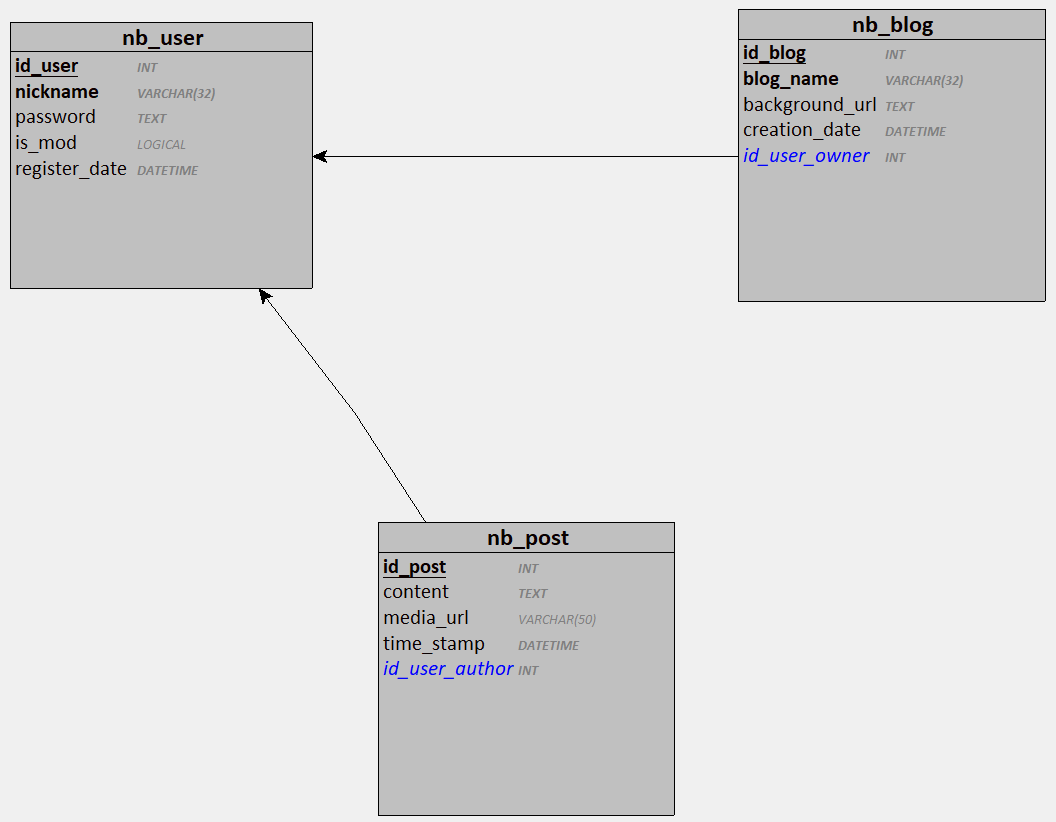
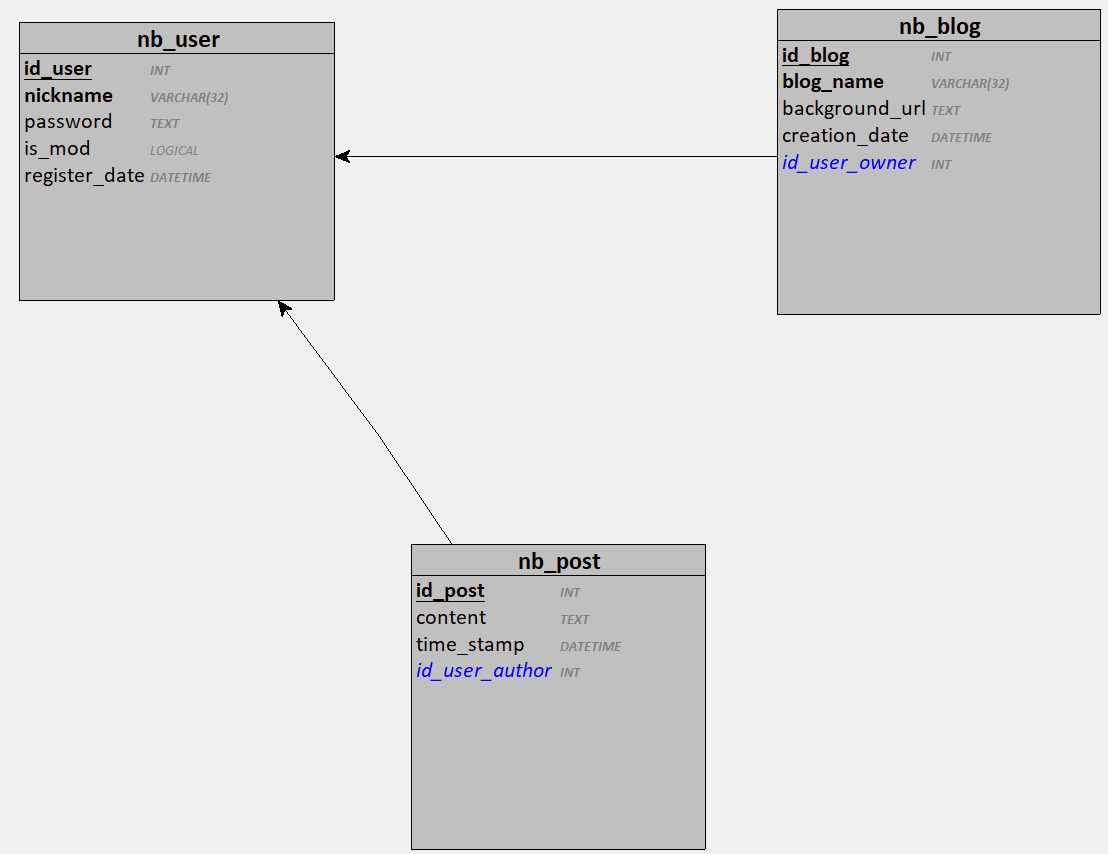
Fixed post uploading & deletion

diff --git a/common/style/styleGeneral.css b/common/style/styleGeneral.css
@@ -303,6 +303,7 @@ header .account form input[type="submit"] {
 .post-container .post-media {
     margin: auto;
     max-height: 300px;
+    max-width: 100%;
     display: block;
 }
 

diff --git a/controller/entities/PostController.php b/controller/entities/PostController.php
@@ -7,7 +7,7 @@ class PostController
 
     /* Insertions */
     // Ajouter un post 
-    public static function createPost(int $authorId, string $content, string $mediaUrl = null): bool
+    public static function createPost(int $authorId, string $content, string $mediaUrl = null): int
     {
         // On tente d'ajouter le post en base de données
         $result = Post::addPost($authorId, $content, $mediaUrl);
@@ -16,7 +16,7 @@ class PostController
             Model::printLog(Model::getError($result));
             return false;
         } else {
-            // Sinon, on retourne le résultat de la requête (vrai/faux)
+            // Sinon, on retourne le résultat de la requête (id du post créé)
             return $result;
         }
     }
@@ -119,50 +119,48 @@ if (isset($_POST['fPost'])) {
         $formError = 'Le contenu du post est vide';
     } else {
         // Sinon, on tente d'ajouter le post en base de données
-        // Si un fichier a bien été uploadé
-        if (!empty($_FILES) && $_FILES['fPostMedia']['error'] != UPLOAD_ERR_NO_FILE) {
-            // Erreur éventuelle de l'upload
-            $error = $_FILES['fPostMedia']['error'];
-
-            if ($_FILES['fPostMedia']['error'] != UPLOAD_ERR_OK || !$_FILES['fPostMedia']['tmp_name']) {
-                // Si une erreur est survenue lors de l'upload, on stocke le message d'erreur à afficher
-                $formError = 'Erreur: Le fichier n\'a pas pu être uploadé';
-            } elseif ((!preg_match("/video\//", $_FILES['fPostMedia']['type'])) && !preg_match("/image\//", $_FILES['fPostMedia']['type'])) {
-                // Si le fichier n'est pas une image ou une vidéo, on stocke le message d'erreur à afficher
-                $formError = 'Votre fichier doit être une image ou une vidéo !';
-            } elseif ($_FILES['fPostMedia']['size'] > 1000000000) {
-                // Si la taille du fichier est supérieure à 10Mo, on stocke le message d'erreur à afficher
-                $formError = 'Le fichier est trop volumineux !';
-            } else {
-                if (preg_match("/image\//", $_FILES['fPostMedia']['type'])) {
-                    $mediaUrl = "/common/files/img/" . $_FILES['fPostMedia']['name'];
-                } elseif (preg_match("/video\//", $_FILES['fPostMedia']['type'])) {
-                    $mediaUrl = "/common/files/video/" . $_FILES['fPostMedia']['name'];
-                }
-                if (!move_uploaded_file($_FILES['fPostMedia']['tmp_name'], $_SERVER['DOCUMENT_ROOT'] . $mediaUrl)) {
-                    $formError = 'Impossible d\'uploader le fichier en raison d\'une erreur côté serveur';
-                }
-            }
-            // S'il n'y a aucune erreur liée à l'upload
-            if (!isset($formError)) {
-                // S'il y a un média à ajouter au post, il sera compris dans la requête
-                if (PostController::createPost($_SESSION['id_user'], $_POST['fPostContent'], $mediaUrl)) {
-                    // Si l'ajout du post s'est bien déroulé, on stocke le message de succès à afficher
-                    $formSuccess = 'Le post a bien été ajouté !';
-                } else {
-                    // Sinon, on stocke le message d'erreur à afficher
-                    $formError = 'Une erreur est survenue lors de l\'ajout du post';
-                }
-            }
+        $postId = PostController::createPost($_SESSION['id_user'], $_POST['fPostContent']);
+        if ($postId) {
+            // Si l'ajout du post s'est bien déroulé, on stocke le message de succès à afficher
+            $formSuccess = 'Le post a bien été ajouté !';
         } else {
-            // S'il n'y a aucune erreur liée à l'upload
-            if (!isset($formError)) {
-                if (PostController::createPost($_SESSION['id_user'], $_POST['fPostContent'])) {
-                    // Si l'ajout du post s'est bien déroulé, on stocke le message de succès à afficher
-                    $formSuccess = 'Le post a bien été ajouté !';
+            // Sinon, on stocke le message d'erreur à afficher
+            $formError = 'Une erreur est survenue lors de l\'ajout du post';
+        }
+
+        // S'il n'y a eu aucune erreur d'insertion en base de données
+        if (!isset($formError)) {
+            // Si un fichier a été uploadé
+            if (!empty($_FILES) && $_FILES['fPostMedia']['error'] != UPLOAD_ERR_NO_FILE) {
+                // Erreur éventuelle de l'upload
+                $error = $_FILES['fPostMedia']['error'];
+
+                if ($_FILES['fPostMedia']['error'] != UPLOAD_ERR_OK || !$_FILES['fPostMedia']['tmp_name']) {
+                    // Si une erreur est survenue lors de l'upload, on stocke le message d'erreur à afficher
+                    $formError = 'Erreur: Le fichier n\'a pas pu être uploadé';
+                } elseif ((!preg_match("/video\//", $_FILES['fPostMedia']['type'])) && !preg_match("/image\//", $_FILES['fPostMedia']['type'])) {
+                    // Si le fichier n'est pas une image ou une vidéo, on stocke le message d'erreur à afficher
+                    $formError = 'Votre fichier doit être une image ou une vidéo !';
+                } elseif ($_FILES['fPostMedia']['size'] > 1000000000) {
+                    // Si la taille du fichier est supérieure à 10Mo, on stocke le message d'erreur à afficher
+                    $formError = 'Le fichier est trop volumineux !';
                 } else {
-                    // Sinon, on stocke le message d'erreur à afficher
-                    $formError = 'Une erreur est survenue lors de l\'ajout du post';
+                    if (preg_match("/image\//", $_FILES['fPostMedia']['type'])) {
+                        // Si le fichier est une vidéo
+                        // On crée le dossier du post partie vidéo
+                        mkdir($_SERVER['DOCUMENT_ROOT'] . '/common/files/img/' . $postId);
+                        // On le place dans le dossier du post partie vidéo
+                        $mediaUrl = '/common/files/img/' . $postId . '/' . $_FILES['fPostMedia']['name'];
+                    } elseif (preg_match("/video\//", $_FILES['fPostMedia']['type'])) {
+                        // Si le fichier est une vidéo
+                        // On crée le dossier du post partie vidéo
+                        mkdir($_SERVER['DOCUMENT_ROOT'] . '/common/files/video/' . $postId);
+                        // On le place dans le dossier du post partie vidéo
+                        $mediaUrl = '/common/files/video/' . $postId . '/' . $_FILES['fPostMedia']['name'];
+                    }
+                    if (!move_uploaded_file($_FILES['fPostMedia']['tmp_name'], $_SERVER['DOCUMENT_ROOT'] . $mediaUrl)) {
+                        $formError = 'Impossible d\'uploader le fichier en raison d\'une erreur côté serveur';
+                    }
                 }
             }
         }

diff --git a/model/entities/PostModel.php b/model/entities/PostModel.php
@@ -9,7 +9,7 @@ class Post
 
     /* MÉTHODES */
     // Création d'un post en BDD
-    public static function addPost(int $authorId, string $content, ?string $mediaUrl): bool|PDOException
+    public static function addPost(int $authorId, string $content, ?string $mediaUrl): int|PDOException
     {
         // Résultat initial = échec
         $result = false;
@@ -21,23 +21,13 @@ class Post
                 throw new PDOException("La connexion avec la base de données n'a pas pu être établie !");
             } else {
                 // Si la connexion à réussi
+
                 // Préparer la requête
-                if (!empty($mediaUrl)) {
-                    // S'il y a un média à ajouter au post
-                    self::$model->setStmt(
-                        self::$model->getPdo()->prepare(
-                            "INSERT INTO newblog.nb_post (content, media_url, id_user_author) VALUES (:content, :media_url, :id_user_author);"
-                        )
-                    );
-                    self::$model->getStmt()->bindParam('media_url', $mediaUrl, PDO::PARAM_STR);
-                } else {
-                    // S'il n y a pas de média à ajouter au post, on ne l'ajoute pas
-                    self::$model->setStmt(
-                        self::$model->getPdo()->prepare(
-                            "INSERT INTO newblog.nb_post (content, id_user_author) VALUES (:content, :id_user_author);"
-                        )
-                    );
-                }
+                self::$model->setStmt(
+                    self::$model->getPdo()->prepare(
+                        "INSERT INTO newblog.nb_post (content, id_user_author) VALUES (:content, :id_user_author);"
+                    )
+                );
                 self::$model->getStmt()->bindParam('content', $content, PDO::PARAM_STR);
                 self::$model->getStmt()->bindParam('id_user_author', $authorId, PDO::PARAM_INT);
                 // Exécuter la requête
@@ -45,8 +35,8 @@ class Post
                     throw new PDOException("Une erreur est survenue");
                 } else {
                     if (self::$model->getStmt()->rowCount() > 0) {
-                        // Si insertion effectuée
-                        $result = true;
+                        // Si insertion effectuée, renvoyer l'id du post
+                        $result = self::$model->getPdo()->lastInsertId();
                     } else {
                         // Si insertion pas effectuée
                         $result = false;
@@ -115,7 +105,7 @@ class Post
                 // Préparer la requête
                 self::$model->setStmt(
                     self::$model->getPdo()->prepare(
-                        "SELECT newblog.nb_post.id_user_author, newblog.nb_user.nickname, newblog.nb_post.content, newblog.nb_post.media_url, newblog.nb_post.time_stamp
+                        "SELECT newblog.nb_post.id_user_author, newblog.nb_user.nickname, newblog.nb_post.content, newblog.nb_post.time_stamp
                     FROM newblog.nb_post JOIN newblog.nb_user
                     ON newblog.nb_post.id_user_author=nb_user.id_user
                     WHERE newblog.nb_post.id_post=:id_post"
@@ -153,7 +143,7 @@ class Post
         $result = -1;
 
         // Supprimer toutes les images de post
-        foreach (glob('common/files/img/*') as $img) {
+        foreach (glob($_SERVER['DOCUMENT_ROOT'] . '/common/files/img/*') as $img) {
             // Si c'est un fichier et pas un sous-dossier
             if (is_file($img)) {
                 // Supprimer le fichier
@@ -161,7 +151,7 @@ class Post
             }
         }
         // Supprimer toutes les vidéos de post
-        foreach (glob('common/files/video/*') as $video) {
+        foreach (glob($_SERVER['DOCUMENT_ROOT'] . '/common/files/video/*') as $video) {
             // Si c'est un fichier et pas un sous-dossier
             if (is_file($video)) {
                 // Supprimer le fichier
@@ -212,16 +202,21 @@ class Post
             $result = new PDOException("Une erreur est survenue lors de la suppression du post !");
         } else {
             if ($post) {
-                // Si un média est attaché au post
-                if (isset($post[0]->media_url) && !is_null($post[0]->media_url)) {
-                    // S'il ne s'agit pas d'un fichier ou qu'il n'existe pas
-                    if (!is_file($_SERVER['DOCUMENT_ROOT'] . $post[0]->media_url)) {
-                        return new PDOException("Le fichier associé au post n'existe pas et ne peut pas être supprimé !");
-                    } else {
-                        // Si le fichier existe, on le supprime
-                        if (!unlink($_SERVER['DOCUMENT_ROOT'] . $post[0]->media_url)) {
-                            return new PDOException("Une erreur est survenue lors de la suppression du fichier associé au post !");
-                        }
+
+                // Supprimer toutes les vidéos de ce post
+                foreach (glob('common/files/video/' . $id . '/*') as $videoFile) {
+                    // Si c'est un fichier et pas un sous-dossier
+                    if (is_file($videoFile)) {
+                        // Supprimer le fichier
+                        unlink($videoFile);
+                    }
+                }
+                // Supprimer toutes les images de ce post
+                foreach (glob('common/files/image/' . $id . '/*') as $imageFile) {
+                    // Si c'est un fichier et pas un sous-dossier
+                    if (is_file($imageFile)) {
+                        // Supprimer le fichier
+                        unlink($imageFile);
                     }
                 }
 

diff --git a/view/includes/content/home.php b/view/includes/content/home.php
@@ -46,15 +46,28 @@
                 echo '</h1>';
                 echo '<div class="post-container">';
                 echo '<div class="post-content">';
-                if ($post->media_url) {
-                    if (preg_match('/\/video\//', $post->media_url)) {
+
+                // S'il existe un dossier contenant les vidéos du post
+                $videoPath = $_SERVER['DOCUMENT_ROOT'] . '/common/files/video/' . $post->id_post;
+                if (file_exists($videoPath) && is_dir($videoPath)) {
+                    // Si le dossier existe
+                    foreach (glob($videoPath . '/*') as $videoFile) {
+                        // Pour tous les fichiers dans le dossier
                         echo '<video class="post-media" alt="Vidéo du post" preload ="auto" controls autoplay loop>
-                            <source src="' . $post->media_url . '">
-                        </video>';
-                    } else {
-                        echo '<img class="post-media" src="' . $post->media_url . '" alt="Image du post">';
+                                <source src="' . str_replace($_SERVER['DOCUMENT_ROOT'], '', $videoFile) . '">
+                            </video>';
                     }
                 }
+                // S'il existe un dossier contenant les images du post
+                $imagePath = $_SERVER['DOCUMENT_ROOT'] . '/common/files/img/' . $post->id_post;
+                if (file_exists($imagePath) && is_dir($imagePath)) {
+                    // Si le dossier existe
+                    foreach (glob($imagePath . '/*') as $imageFile) {
+                        // Pour tous les fichiers dans le dossier
+                        echo '<img class="post-media" src="' . str_replace($_SERVER['DOCUMENT_ROOT'], '', $imageFile) . '" alt="Image du post"/>';
+                    }
+                }
+
                 echo '<p>' . $post->content . '</p>';
                 echo '</div>';
                 echo '<p class="post-timestamp">' . $post->time_stamp . '</p>';

diff --git a/_Conception/DevInfo.md b/_Conception/DevInfo.md
@@ -105,8 +105,7 @@ Specific changes
 - [ ] Fix links and headers style (front)
 - [ ] Create the database automatically (back)
 - [ ] Add a "remember me" option for login (front/back)
-- [ ] Use a single PDO Connection for all operations ?
-- [ ] Upload & delete files into folders named by post id (back)
+- [ ] Use a single PDO Connection for all operations ? (back)
 
 ### Version 2.0 - Rewriting from scratch
 
@@ -122,14 +121,12 @@ Specific changes
 
 To-do:
 
-- [ ] Remove file associated to removed post (back)
 - [ ] Destroy SESSION variables when blog is reinstalled (back)
 - [ ] Don't use SESSION variables when blog is not installed (back)
 - [ ] Remove useless DB connection if blog is not installed (back)
 - [ ] Make separate & improved logs for view/controller/model (back)
 - [ ] Try to find a way to make functions out of the code in each model method (back)
 - [ ] Improve error handling to handle all cases and display them properly (front/back)
-- [ ] Restore logo changing feature (front/back)
 - [ ] Make CSS rules reusable (front)
 
 ## Changelog (global changes)
